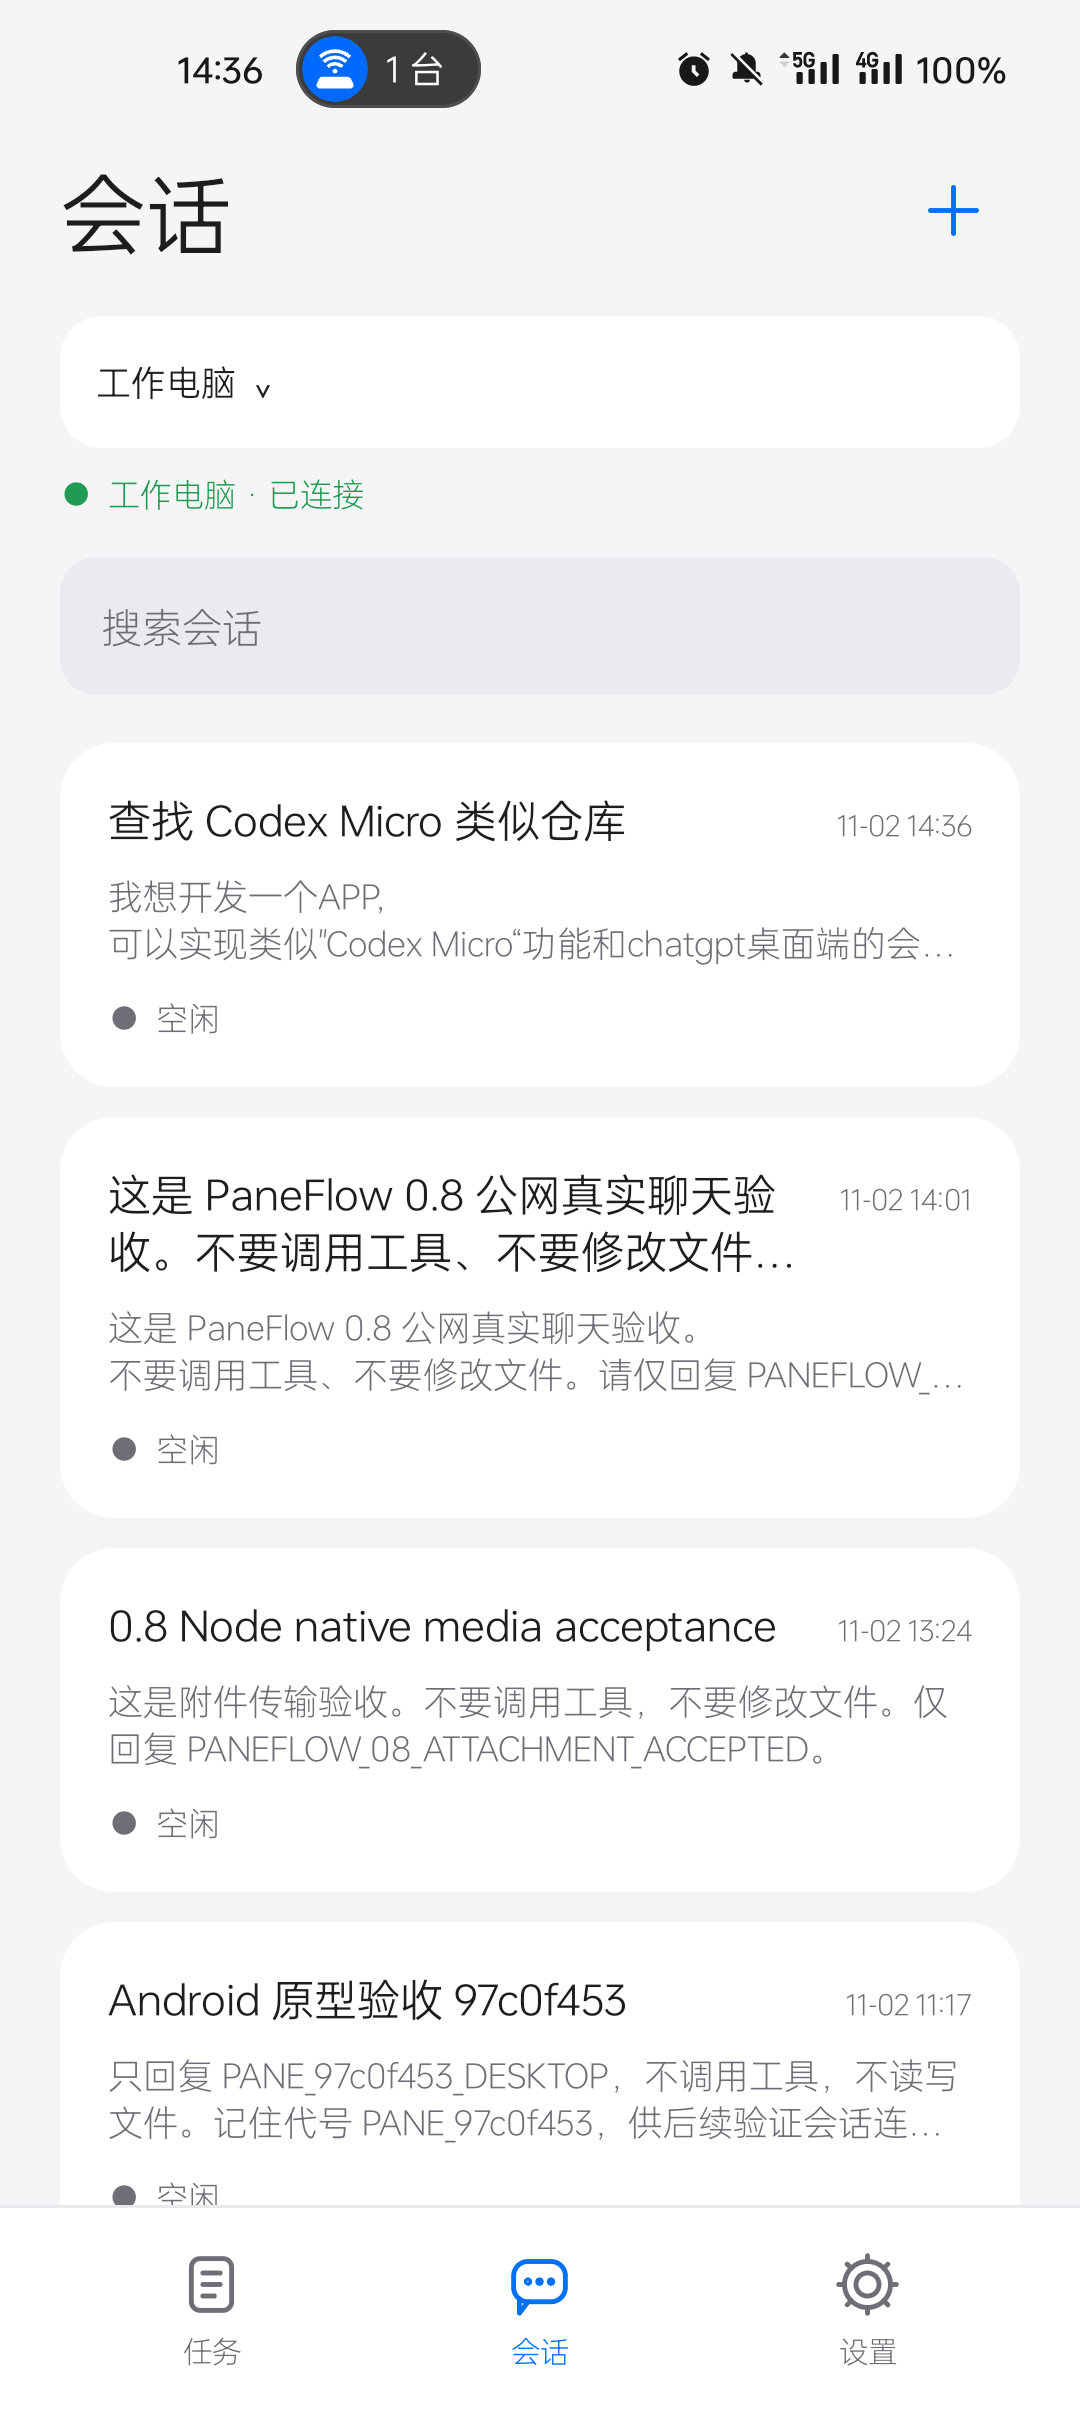
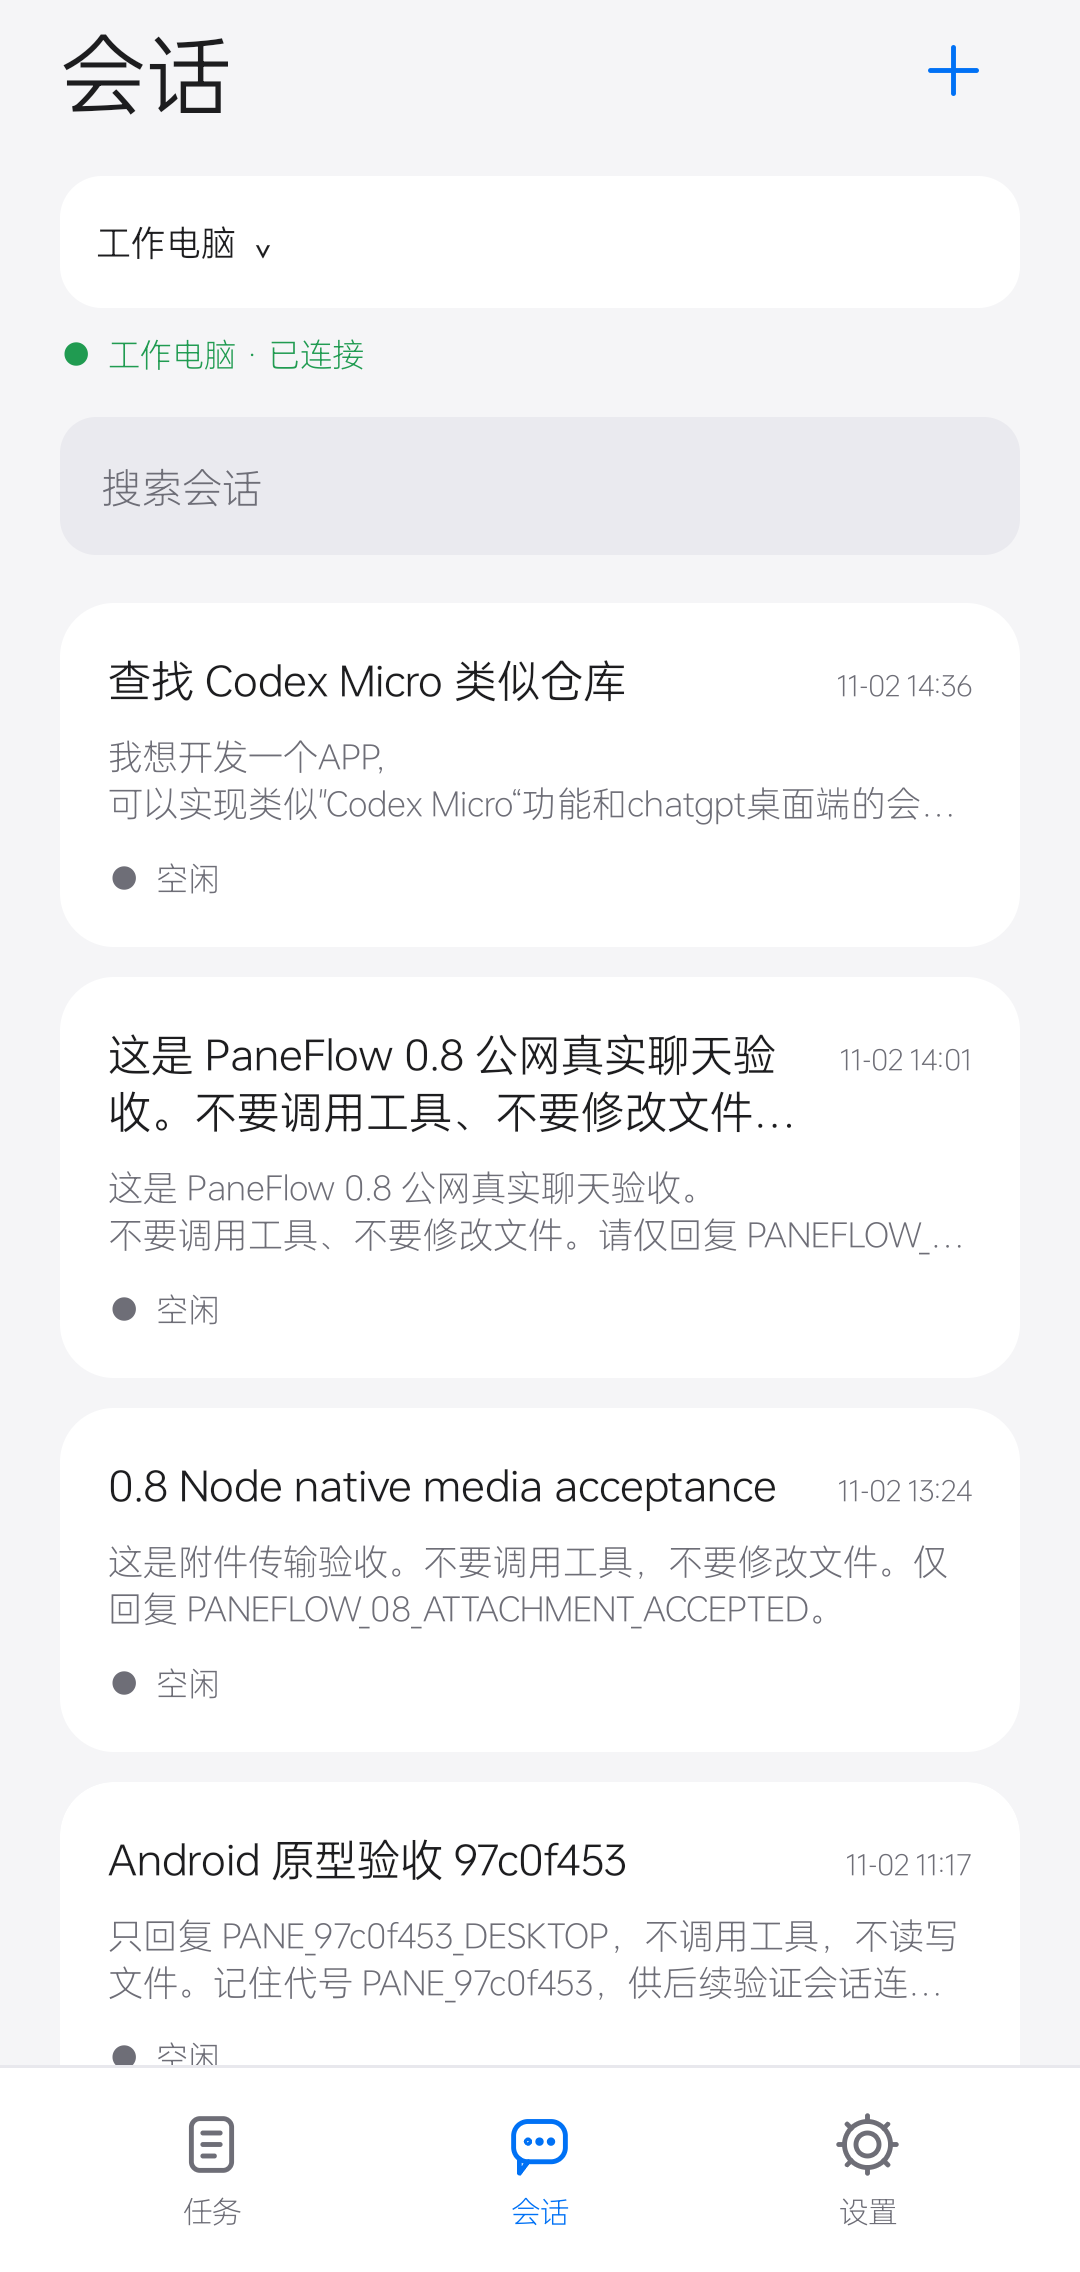
release: prepare 0.8.0 assets and refresh mobile screenshots

diff --git a/README.md b/README.md
@@ -21,43 +21,13 @@ Windows + Android 的 Codex 任务与会话配套端。基于 [Codex Pane](https
 
 ## 手机实机截图
 
-以下为 0.8.0 在 OPPO K10 上的实际页面：统一标题、页面边距、搜索框和卡片排版。截图中的会话与任务仅用于展示；连接状态和记录数量随设备变化。
+以下为 0.8.0 在 OPPO K10 上的实际页面：统一标题、页面边距、搜索框和卡片排版。截图已裁去手机顶部状态栏；会话与任务仅用于展示；连接状态和记录数量随设备变化。
 
 | 任务中心 | 会话列表 |
 |---|---|
 | <img src="docs/screenshots/android-tasks-0.8.png" alt="OPPO K10 任务中心：筛选、状态和任务详情入口" width="320"> | <img src="docs/screenshots/android-sessions-0.8.png" alt="OPPO K10 会话列表：电脑选择、搜索与历史记录" width="320"> |
 
 本次界面调整与真机检查见 [视觉对齐记录](docs/UI-ALIGNMENT-0.8.md)。
-
-## UI 草图
-
-以下是已采用的早期设计草图，共 **4 张图板、16 个页面／状态**，展示浅色全屏布局、底部导航与操作弹层。图中任务、配对码、路径和对话均为示例，不是真实用户数据。
-
-草图保留了早期 **Pane** 名称；当前版本名称为 **Codex随行 / PaneFlow**。模型、推理强度及任务状态以实际服务返回为准。图中部分示意与当前实现不同：模型调整和分叉须等当前轮次结束，分叉从当前会话创建，不支持任意历史消息分叉。
-
-### 连接与导航
-
-欢迎与配对 → 核对配对码 → 任务 → 会话。
-
-![UI 草图：欢迎配对、核对配对码、任务列表、会话列表](docs/ui-sketches/01-connection-navigation.png)
-
-### 聊天与操作
-
-原生聊天、运行与停止、审批、新建会话。
-
-![UI 草图：聊天、停止任务、审批、新建会话](docs/ui-sketches/02-chat-actions.png)
-
-### 配置与通知
-
-模型与推理强度、分叉会话、设置与连接、后台与通知。
-
-![UI 草图：模型强度、分叉、设置、后台通知](docs/ui-sketches/03-settings-notifications.png)
-
-### 关键状态
-
-配对链接输入、断线恢复、空白会话、移除绑定确认。
-
-![UI 草图：输入链接、断线恢复、空白会话、解绑确认](docs/ui-sketches/04-connection-states.png)
 
 ## 手机端使用说明
 
@@ -149,7 +119,7 @@ npm run package:win
 npm --prefix companion run apk
 ```
 
-Android SDK 路径写入本地 `companion/android/local.properties`，或使用 `ANDROID_HOME`。不要提交本地配置。产物为 `release/win-unpacked/PaneFlow Desktop.exe` 与 `companion/android/app/build/outputs/apk/debug/app-debug.apk`。APK 使用本机调试签名；本仓库不包含发布私钥或预构建安装包。
+Android SDK 路径写入本地 `companion/android/local.properties`，或使用 `ANDROID_HOME`。不要提交本地配置。产物为 `release/win-unpacked/PaneFlow Desktop.exe` 与 `companion/android/app/build/outputs/apk/debug/app-debug.apk`。APK 使用本机调试签名；Git 仓库不包含发布私钥或预构建安装包。安装包与 SHA256 校验文件见 [0.8.0 Release](https://github.com/kismet84/paneflow/releases/tag/v0.8.0)。本次 Android 包沿用已验证的 debug 签名原型，支持相同签名覆盖安装；Windows 安装包未作 Authenticode 签名。
 
 ## 固定公网与自启
 

diff --git a/docs/RELEASE-0.8.0.md b/docs/RELEASE-0.8.0.md
@@ -1,0 +1,34 @@
+# PaneFlow 0.8.0
+
+Windows + Android 的个人 Codex 任务与聊天配套工具。
+
+## 本次更新
+
+- 原生 Markdown、代码块复制、长回答与历史折叠。
+- 图片、文件、拍照及系统语音转文字；加密附件分块上传、断点核对与预览。
+- 多电脑独立绑定与会话选择、持久草稿、请求回执核对和历史分页。
+- 任务中心、队列、审批中心、详情与模板。
+- Windows 配置向导、固定公网入口、登录自启、后台连接与重连。
+- 任务/会话页视觉对齐；README 移除早期草图，更新无手机状态栏的实机截图。
+
+## 安装与升级
+
+- Windows：下载 `PaneFlow-Desktop-0.8.0-Setup.exe`。保留原数据、设备身份、隧道和自启配置；不要把已有数据目录作为安装目标。安装包未作 Authenticode 签名。
+- Android：下载 `PaneFlow-Android-0.8.0.apk`。包名 `com.codexpane.companion`，版本码 10。此包是已验证的 **debug 签名原型**，不是正式 release 签名构建。与本机此前分发包同签名，可覆盖安装；不同签名包无法直接覆盖，不要为安装而卸载已有绑定。
+- 电脑需要已安装并登录 Codex，具备 Node.js 22+ 与 cloudflared；公网使用自己的固定域名和隧道。
+- 本次同时提供 `update.json` 与 `SHA256SUMS.txt`。应用内更新仍需用户确认，不自动安装。
+
+## 验证范围
+
+本地通过 334 项桌面测试、12 项中继测试、3 项 Companion 测试；Android 应用/测试 APK 构建及单元测试通过。OPPO K10 已验证公网聊天、附件、重连与任务/会话界面；分项记录见仓库 docs/VALIDATION-0.8.md、docs/VALIDATION-0.8-PUBLIC.md 和 docs/UI-ALIGNMENT-0.8.md。本轮发布未再次运行会发送消息的真机测试。
+
+仍为原型：后台通知受 Android 限制，未接入厂商推送；跨进程任务控制能力有限。不包含私钥、设备绑定或本地部署配置。
+
+## SHA256
+
+```text
+0450c537ebc2f1f6674576659e7c5007da96a355ba96419e1e634e51b93f1a0c  PaneFlow-Desktop-0.8.0-Setup.exe
+fed460e8c6cfa93e9b1c3519225d3e982565dc672a34c55712fef3f5fe03d9bc  PaneFlow-Android-0.8.0.apk
+```
+
+PowerShell 校验：`Get-FileHash -Algorithm SHA256 <下载文件路径>`，结果应与以上校验值一致。

diff --git a/CHANGELOG.md b/CHANGELOG.md
@@ -4,6 +4,9 @@
 
 ## 0.8.0 — 原生聊天与多媒体
 
+- GitHub 提供 Windows 安装包、同签名 Android 原型 APK、更新说明与 SHA256 校验值；README 删除早期草图，实机截图裁去状态栏。
+- 修复 Android CI 安装已下架 tools 包导致的失败，显式安装 platform-tools。
+
 - Android 任务/会话页统一标题、20 dp 页面边距、搜索框和紧凑按钮；长标题与日期对齐，保留任务操作入口。OPPO K10 覆盖安装及页面导航验证通过，见 [视觉对齐记录](docs/UI-ALIGNMENT-0.8.md)。
 
 - 日常 Windows 公网实例升级 0.8，保留原身份/域名/登录自启；OPPO 公网三轮聊天、附件中断续传、异常自动重连、图片与文件预览通过。修复末条消息仅部分可见时误判到底导致阅读位置跳动。[补充验收](docs/VALIDATION-0.8-PUBLIC.md)。
